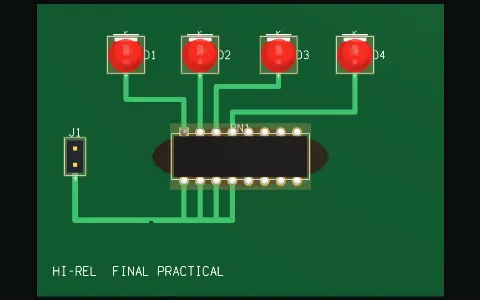
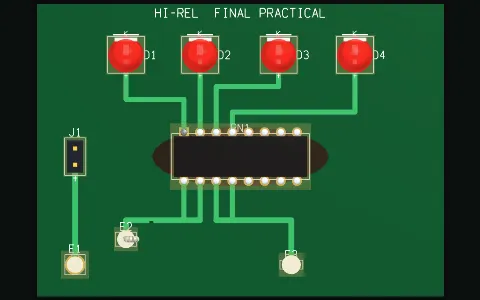
Learn: final practical wires a turret, hook and pierced tab (Appendix C)
The DIP board of the final practical now takes +5V from J1 on turret E1 and
feeds the network through hook E2 and pierced tab E3; the practical starts
without the two wires, so the candidate fits a double wire on the turret and a
single wire on the tab, as the 2M miniature performance test lists them. The
wire rules are graded there too.

diff --git a/src/i18n/ru.ts b/src/i18n/ru.ts
@@ -1838,18 +1838,14 @@ const ru: Catalog = {
   "Test coat": "Проба",
   "Tap a coated part to test the coating (test set in Bench).": "Нажмите покрытую деталь, чтобы испытать покрытие (проба выбирается в «Стенде»).",
   // ---- Soldering track: final practical (2M Appendix C)
-  "Modelled on the 2M miniature recertification performance test: identify and remove a conformal coating, remove and replace a 16-lead DIP, replace a pad with an eyelet, repair a conductor, in an ESD-safe, orderly work area.": "По образцу практического экзамена на переаттестацию 2M (миниатюрный уровень): определить и снять влагозащитное покрытие, выпаять и заменить 16-выводной DIP, заменить площадку с пистоном, отремонтировать проводник — на безопасном от ЭСР, аккуратном рабочем месте.",
   "Every project is graded against the workmanship standards of the 2M manual (T.O. 00-25-259): solder acceptability and post-solder cleanliness included.": "Каждое задание оценивается по стандартам качества руководства 2M (T.O. 00-25-259), включая приемлемость пайки и чистоту после пайки.",
   "A repaired assembly is restored at least to the original manufacturer's standards. The two final steps of any repair: inspect and test.": "Отремонтированную сборку восстанавливают как минимум до стандартов изготовителя. Два заключительных шага любого ремонта: осмотр и проверка.",
   "Recertification": "Переаттестация",
   "every 18 months, all projects within three days": "каждые 18 месяцев, все задания за три дня",
   "This card": "Эта плата",
-  "coated (no drawing), DIP-16 network, dry air": "с покрытием (без чертежа), сборка DIP-16, сухой воздух",
-  "RN1 burned out on a coated card with no drawing. Identify the coating, replace RN1 (16 pins out and in, always in a skipping pattern), repair what else you find, and put the same coating back. Every rule is graded; the hints give the order of work if you need it.": "RN1 сгорела на плате с покрытием и без чертежа. Определите покрытие, замените RN1 (16 выводов выпаять и запаять, всегда вразбивку), отремонтируйте всё, что ещё найдёте, и нанесите то же покрытие. Проверяется каждое правило; в подсказках есть порядок работы, если он нужен.",
   "Based on public-domain US Navy training": "По общедоступным учебным материалам ВМС США",
   "Soldering, rework and inspection after the US Navy's public-domain 2M training material": "Пайка, ремонт и контроль по общедоступным учебным материалам 2M ВМС США",
   "Based on NEETS Module 14 and the Navy's 2M repair and certification manuals, all public domain. A board counts as done when it works and passes inspection.": "По NEETS Module 14 и руководствам ВМС по ремонту и аттестации 2M, все в общественном достоянии. Плата засчитывается, когда она работает и проходит контроль.",
-  "The course's practical, like the 2M miniature performance test. All four LEDs are dark: RN1, the DIP-16 resistor network, burned out. The card is coated (no drawing), and the inspector checks everything you have learned. Replace RN1, repair what else you find, and leave the card as the manuals demand.": "Практикум курса — как практический экзамен 2M миниатюрного уровня. Все четыре светодиода не светятся: сгорела RN1, резисторная сборка DIP-16. Плата с покрытием (чертежа нет), а контролёр проверит всё, чему вы научились. Замените RN1, отремонтируйте всё, что ещё найдёте, и оставьте плату такой, как требуют руководства.",
   "Order of work: identify the coating by test and record it, take it off RN1 with Table 3-1's first choice, then clear all 16 holes with continuous vacuum in a skipping pattern (never two neighbouring pins in a row).": "Порядок работы: определите покрытие пробами и запишите его, снимите его с RN1 первым способом из таблицы 3-1, затем очистите все 16 отверстий непрерывным вакуумом вразбивку (никогда два соседних вывода подряд).",
   "RN1 out: the pad under pin 1 has lifted, replace it (Pad repair, E). Fit a new RN1, solder all 16 pins in a skipping pattern, clean the flux. The +5V run has a deep nick: staple it (K).": "RN1 извлечена: площадка под выводом 1 отслоилась, замените её («Ремонт площадки», E). Поставьте новую RN1, пропаяйте все 16 выводов вразбивку, смойте флюс. На дорожке +5V глубокий надрез: поставьте скобу (K).",
   "Last: the same coating back on RN1, then run the tests.": "Напоследок: то же покрытие на RN1, затем запустите проверки.",
@@ -2020,6 +2016,11 @@ const ru: Catalog = {
   "Strip too short and the wire does not reach the bottom, or the insulation sits in the solder; too long and the bare wire stands out of the cup.": "Зачистите слишком коротко — провод не дойдёт до дна или изоляция окажется в припое; слишком длинно — голый провод торчит из чашечки.",
   "Fill each cup with fresh solder (\"+ flux\"): the tinning alone does not fill it. Clean the flux off.": "Заполните каждую чашечку свежим припоем («+ флюс»): одного лужения мало. Смойте флюс.",
   "Tap a terminal, prepare the end; then the other terminal.": "Тапните контакт, подготовьте конец; затем другой контакт.",
+  "Modelled on the 2M miniature recertification performance test: identify and remove a conformal coating, wire a turret (double wire), a hook and a pierced tab, remove and replace a 16-lead DIP, replace a pad with an eyelet, repair a conductor, in an ESD-safe, orderly work area.": "По образцу практического экзамена 2M на переаттестацию (миниатюрный уровень): определить и снять влагозащитное покрытие, распаять провода на стойке (два провода), крючке и лепестке, извлечь и заменить 16-выводной DIP, заменить площадку с пистоном, отремонтировать проводник — на чистом, упорядоченном, защищённом от ESD рабочем месте.",
+  "coated (no drawing), DIP-16 network, three terminals, dry air": "покрыта (без чертежа), сборка DIP-16, три контакта, сухой воздух",
+  "RN1 burned out on a coated card with no drawing, and the supply wires from E1 are missing. Identify the coating, replace RN1 (16 pins out and in, always in a skipping pattern), wire E1 to E2 and E3, repair what else you find, and put the same coating back. Every rule is graded; the hints give the order of work if you need it.": "RN1 сгорела на покрытой плате без чертежа, и проводов питания от E1 нет. Определите покрытие, замените RN1 (16 выводов наружу и обратно, всегда вразбивку), проведите провода от E1 к E2 и E3, исправьте всё остальное, что найдёте, и нанесите то же покрытие. Оценивается каждое правило; подсказки дают порядок работы, если нужно.",
+  "The course's practical, like the 2M miniature performance test. All four LEDs are dark: RN1, the DIP-16 resistor network, burned out, and the supply wires from turret E1 to hook E2 and tab E3 were never fitted. The card is coated (no drawing), and the inspector checks everything you have learned. Replace RN1, wire the terminals, repair what else you find, and leave the card as the manuals demand.": "Практический экзамен курса, как экзамен 2M на миниатюрный уровень. Все четыре светодиода не горят: RN1, резисторная сборка DIP-16, сгорела, а провода питания от стойки E1 к крючку E2 и лепестку E3 так и не поставили. Плата покрыта (без чертежа), и контролёр проверяет всё, чему вы научились. Замените RN1, распаяйте провода, исправьте остальное и оставьте плату такой, как требуют руководства.",
+  "Wire E1 to E2 and E1 to E3 (Hook-up wire, W): a double wire on the turret, the hook wire in the arc, the tab wire through the eye. Solder E1 with both wires on it, then clean.": "Проведите провода E1–E2 и E1–E3 («Монтажный провод», W): два провода на стойке, на крючке провод в дуге, на лепестке — через отверстие. Пропаяйте E1 с обоими проводами, затем смойте флюс.",
 };
 
 export default ru;

diff --git a/src/scenarios/soldering.ts b/src/scenarios/soldering.ts
@@ -185,15 +185,31 @@ async function thermalShunt(): Promise<Scenario> {
  * A DIP-16 resistor network (8 × 330 Ω isolated) driving four LEDs: resistor n sits between pin n
  * (bottom row, to the LED) and pin 17 − n (top row, on +5V). Pins 1–4 never bonded.
  */
-/** The DIP-16 network board (lessons 6 and the final practical). */
-function dipNetworkBoard(label: string) {
+/**
+ * The DIP-16 network board (lessons 6 and the final practical). `wired`: +5V from J1 lands on
+ * turret E1 and the supply run starts at hook E2, joined by a hook-up wire (as on the 2M
+ * practical's card, Appendix C).
+ */
+function dipNetworkBoard(label: string, wired = false) {
   const k = new Builder(64, 46);
   const j1 = k.header('J1', 5, [6, 22], 0, '5V DC');
   const rn = k.dip('RN1', '4116R-2-331', [32, 22], 16);
   const ledX = [14, 25.65, 38, 50];
   const leds = ledX.map((x, i) => k.led(`D${i + 1}`, 'red', [x, 38], -90)); // anode up (36.73), cathode down (39.27)
-  k.track('F', [k.pad(j1, '1'), [6, 12], [30.73, 12]], 0.9, '+5V');
-  for (const n of [16, 15, 14, 13]) { const p = k.pad(rn, String(n)); k.track('F', [[p[0], 12], p], 0.8, '+5V'); }
+  const bus = (n: number) => (!wired ? '+5V' : n >= 15 ? 'VBUS1' : 'VBUS2');
+  if (wired) {
+    // Appendix C: a double wire on a turret (E1) and a single wire on a pierced tab (E3); E2 is a hook
+    const e1 = k.terminal('E1', 'turret', [6, 5]), e2 = k.terminal('E2', 'hook', [14, 9]), e3 = k.terminal('E3', 'tab', [40, 5]);
+    setNets(e1, { '1': '+5V' }); setNets(e2, { '1': 'VBUS1' }); setNets(e3, { '1': 'VBUS2' });
+    k.track('F', [k.pad(j1, '1'), k.pad(e1, '1')], 0.9, '+5V');
+    k.track('F', [k.pad(e2, '1'), [14, 12], [25.65, 12]], 0.9, 'VBUS1');
+    k.track('F', [k.pad(e3, '1'), [40, 12], [28.19, 12]], 0.9, 'VBUS2');
+    for (const [a, z] of [[e1, e2], [e1, e3]]) {
+      const j = addWire(k.b, a, targetEnd(a, terminalType(a)!), z, targetEnd(z, terminalType(z)!));
+      for (const e of j.ends!) e.soldered = 'ok';
+    }
+  } else k.track('F', [k.pad(j1, '1'), [6, 12], [30.73, 12]], 0.9, '+5V');
+  for (const n of [16, 15, 14, 13]) { const p = k.pad(rn, String(n)); k.track('F', [[p[0], 12], p], 0.8, bus(n)); }
   const pin = (n: number) => k.pad(rn, String(n));
   k.track('F', [pin(1), [pin(1)[0], 31], [ledX[0], 31], k.pad(leds[0], '2')], 0.8, 'LED1_A');
   k.track('F', [pin(2), k.pad(leds[1], '2')], 0.8, 'LED2_A');
@@ -202,7 +218,7 @@ function dipNetworkBoard(label: string) {
   k.track('B', [k.pad(leds[0], '1'), [ledX[0], 42], [ledX[3], 42], k.pad(leds[3], '1')], 0.9, 'GND');
   for (const i of [1, 2]) k.track('B', [k.pad(leds[i], '1'), [ledX[i], 42]], 0.9, 'GND');
   k.track('B', [[ledX[0], 42], [6, 42], k.pad(j1, '2')], 0.9, 'GND');
-  k.text([16, 4], label, 1.4);
+  k.text(wired ? [32, 44.6] : [16, 4], label, 1.4);
   return { k, leds };
 }
 
@@ -439,16 +455,17 @@ function solderCups() {
  * (staple), and the same coating goes back on.
  */
 async function finalPractical(): Promise<Scenario> {
-  const { k, leds } = dipNetworkBoard('HI-REL  FINAL PRACTICAL');
+  const { k, leds } = dipNetworkBoard('HI-REL  FINAL PRACTICAL', true);
   k.b.coating = { type: 'polyurethane', thick: false };
   const sc = await finalize('hr-final-practical', {
     title: 'Final Practical',
     author: 'DEADBOARD',
     difficulty: 4,
-    description: 'The course\'s practical, like the 2M miniature performance test. All four LEDs are dark: RN1, the DIP-16 resistor network, burned out. The card is coated (no drawing), and the inspector checks everything you have learned. Replace RN1, repair what else you find, and leave the card as the manuals demand.',
+    description: 'The course\'s practical, like the 2M miniature performance test. All four LEDs are dark: RN1, the DIP-16 resistor network, burned out, and the supply wires from turret E1 to hook E2 and tab E3 were never fitted. The card is coated (no drawing), and the inspector checks everything you have learned. Replace RN1, wire the terminals, repair what else you find, and leave the card as the manuals demand.',
     hints: [
       'Order of work: identify the coating by test and record it, take it off RN1 with Table 3-1\'s first choice, then clear all 16 holes with continuous vacuum in a skipping pattern (never two neighbouring pins in a row).',
       'RN1 out: the pad under pin 1 has lifted, replace it (Pad repair, E). Fit a new RN1, solder all 16 pins in a skipping pattern, clean the flux. The +5V run has a deep nick: staple it (K).',
+      'Wire E1 to E2 and E1 to E3 (Hook-up wire, W): a double wire on the turret, the hook wire in the arc, the tab wire through the eye. Solder E1 with both wires on it, then clean.',
       'Last: the same coating back on RN1, then run the tests.',
     ],
     par: 40,
@@ -458,9 +475,10 @@ async function finalPractical(): Promise<Scenario> {
     rn.state.burnt = true;
     rn.state.lifted = [0];
     rn.state.cold = [0];
-    const t = b.traces.find((x) => x.net === '+5V' && x.layer === 'F' && Math.abs(x.a[1] - 12) < 0.01 && Math.abs(x.b[1] - 12) < 0.01 && Math.abs(x.b[0] - x.a[0]) > 10)!;
+    const t = b.traces.find((x) => x.net === 'VBUS1' && x.layer === 'F' && Math.abs(x.a[1] - 12) < 0.01 && Math.abs(x.b[1] - 12) < 0.01 && Math.abs(x.b[0] - x.a[0]) > 10)!;
     const depth = 0.4;
     b.nicks = [{ id: 'n' + (b.nextId++).toString(36), at: [18, 12 - t.w / 2 + (depth * t.w) / 2], layer: 'F', len: 0.6, depth, rot: 0, width: t.w }];
+    b.jumpers = []; // the supply wires from E1 to E2 and E3 are not fitted yet
   });
   sc.solver = 'spice';
   return sc;

diff --git a/src/lessons/neets14.ts b/src/lessons/neets14.ts
@@ -349,25 +349,27 @@ export const CONTENT: LessonContent[] = [
     scenario: 'hr-final-practical',
     source: { ...CERT_SOURCE, pages: 'Appendix C' },
     points: [
-      tk('Modelled on the 2M miniature recertification performance test: identify and remove a conformal coating, remove and replace a 16-lead DIP, replace a pad with an eyelet, repair a conductor, in an ESD-safe, orderly work area.'),
+      tk('Modelled on the 2M miniature recertification performance test: identify and remove a conformal coating, wire a turret (double wire), a hook and a pierced tab, remove and replace a 16-lead DIP, replace a pad with an eyelet, repair a conductor, in an ESD-safe, orderly work area.'),
       tk('Every project is graded against the workmanship standards of the 2M manual (T.O. 00-25-259): solder acceptability and post-solder cleanliness included.'),
       tk('A repaired assembly is restored at least to the original manufacturer\'s standards. The two final steps of any repair: inspect and test.'),
       tk('Every rule of the earlier lessons is graded here.'),
     ],
     numbers: [
       { label: tk('Recertification'), value: tk('every 18 months, all projects within three days') },
-      { label: tk('This card'), value: tk('coated (no drawing), DIP-16 network, dry air') },
+      { label: tk('This card'), value: tk('coated (no drawing), DIP-16 network, three terminals, dry air') },
     ],
     original: [
       'The Miniature Electronic Repair Technician must satisfactorily complete the projects listed below. All specifications are contained in NAVAIR 01-1A-23, NAVSEA SE004-AK-TRS-010/2M (work package references are noted below). All work must comply with the workmanship standards listed in the respective work package sections.',
       'Identify four of five and remove two of the following conformal coating types: AR, ER, SR, UR, or XY',
+      'Install a single wire on a pierced tab terminal',
+      'Install a double wire on a turret or hook terminal',
       'Conductor repair: pad replacement with a flat-set eyelet',
       'Remove and replace a 14/16 lead dual in-line package (DIP)',
       'During the recertification, the technician observed all safety precautions and maintained a clean, orderly, and electrostatic discharge (ESD) safe work area. [SAT/UNSAT]',
       'A technician shall satisfactorily complete all required recertification tasks within a three-day period. All recertification projects must meet minimum acceptance criteria.',
       'CAUTION (NEETS Module 14, p. 3-1): THIS SECTION IS NOT, IN ANY WAY, TO BE USED BY YOU AS AUTHORIZATION TO ATTEMPT THESE TYPES OF REPAIRS WITHOUT OFFICIAL 2M CERTIFICATION.',
     ],
-    task: tk('RN1 burned out on a coated card with no drawing. Identify the coating, replace RN1 (16 pins out and in, always in a skipping pattern), repair what else you find, and put the same coating back. Every rule is graded; the hints give the order of work if you need it.'),
+    task: tk('RN1 burned out on a coated card with no drawing, and the supply wires from E1 are missing. Identify the coating, replace RN1 (16 pins out and in, always in a skipping pattern), wire E1 to E2 and E3, repair what else you find, and put the same coating back. Every rule is graded; the hints give the order of work if you need it.'),
     questions: [
       { ref: 'Q14', q: tk('To what standards should a technician restore electronic assemblies?'), a: tk('Manufacturer\'s standards.'), page: '3-22' },
       { ref: 'Q36', q: tk('What is the cause of most accidents?'), a: tk('Deviation from prescribed safe operating procedures.'), page: '3-46' },

diff --git a/src/lessons/track.ts b/src/lessons/track.ts
@@ -31,7 +31,7 @@ export const LESSON_META: LessonMeta[] = [
   { scenario: 'hr-turret', title: tk('Turret terminals'), station: 'r316f', grades: ['wire-strip', 'wire-tinning', 'wire-clearance', 'wire-forming', 'wire-solder', 'flux-residue', 'overheated-joint', 'slow-melt', 'dull-joint', 'loose-solder'] },
   { scenario: 'hr-hook-tab', title: tk('Hook and pierced tab terminals'), station: 'r316f', grades: ['wire-strip', 'wire-tinning', 'wire-clearance', 'wire-forming', 'wire-solder', 'flux-residue', 'overheated-joint', 'slow-melt', 'dull-joint', 'loose-solder'] },
   { scenario: 'hr-solder-cup', title: tk('Solder cups'), station: 'r316f', grades: ['wire-strip', 'wire-tinning', 'wire-clearance', 'wire-forming', 'wire-solder', 'flux-residue', 'overheated-joint', 'slow-melt', 'dull-joint', 'loose-solder'] },
-  { scenario: 'hr-final-practical', title: tk('Final practical'), station: 'r316f', bench: { grounded: false, humidity: 'low' }, grades: ['coating-id', 'coating-id-order', 'coating-charred', 'coating-missing', 'coating-mismatch', 'coating-method', 'skip-pattern', 'dull-joint', 'overheated-joint', 'slow-melt', 'pad-lifted', 'part-overheated', 'flux-residue', 'loose-solder', 'wire-repair', 'nick', 'esd-damage', 'esd-handling'] },
+  { scenario: 'hr-final-practical', title: tk('Final practical'), station: 'r316f', bench: { grounded: false, humidity: 'low' }, grades: ['wire-strip', 'wire-tinning', 'wire-clearance', 'wire-forming', 'wire-solder', 'coating-id', 'coating-id-order', 'coating-charred', 'coating-missing', 'coating-mismatch', 'coating-method', 'skip-pattern', 'dull-joint', 'overheated-joint', 'slow-melt', 'pad-lifted', 'part-overheated', 'flux-residue', 'loose-solder', 'wire-repair', 'nick', 'esd-damage', 'esd-handling'] },
 ];
 
 export function lessonMeta(scenarioId: string): LessonMeta | undefined {

diff --git a/test/soldering.test.ts b/test/soldering.test.ts
@@ -17,6 +17,7 @@ import { buildConnectivity } from '../src/connectivity';
 import { evaluateObjectives } from '../src/verify';
 import { BOARD_INFO, PATH_ORDER } from '../src/scenarios/catalog';
 import { addBlob, addJumper, installPart, removePart } from '../src/ops';
+import { addWire, targetEnd, terminalType } from '../src/terminals';
 
 function assert(c: unknown, m: string): asserts c { if (!c) throw new Error(m); }
 
@@ -451,6 +452,17 @@ async function main() {
     for (const pi of order) { heat(pi, true); cool(); }
     for (const c of b.components) c.state.fluxResidue = undefined;
     addJumper(b, [15, 12], 'F', [21, 12], 'F', 'staple');
+    // the supply wires: a double wire on turret E1, one to hook E2, one to pierced tab E3
+    const term = (ref: string) => b.components.find((c) => c.ref === ref)!;
+    for (const z of ['E2', 'E3']) addWire(b, term('E1'), targetEnd(term('E1'), 'turret'), term(z), targetEnd(term(z), terminalType(term(z))!));
+    for (const ref of ['E1', 'E2', 'E3']) {
+      const c = term(ref);
+      rw.applyFlux(c.at[0], c.at[1], 3); rw.feedSolder(c, 0);
+      m.addSource({ kind: 'iron', x: 0, y: 0, temp: 316, g: IRON_G.flux, pmax: 60, until: m.time + 1.6, partId: c.id, pad: 0 });
+      for (let t = 0; t < 1.6; t += 0.05) { m.step(0.05); rw.update(0.05); }
+      for (let t = 0; t < 8; t += 0.1) { m.step(0.1); rw.update(0.1); }
+    }
+    for (const c of b.components) c.state.fluxResidue = undefined;
     applyCoating(b, rn, 'polyurethane');
     const ins = inspect(b, referenceBoard(sc)!, rw.episodes, rw.log);
     assert(evaluateObjectives(b, buildConnectivity(b), sc.objectives, 'spice').allPassed, `the final card works (${JSON.stringify(rn.state)})`);

diff --git a/test/generate.test.ts b/test/generate.test.ts
@@ -61,7 +61,7 @@ const FIXES: Record<string, (b: Board) => void> = {
   'hr-turret': (b) => wire(b, [['E1', 'E2'], ['E2', 'E3']]),
   'hr-hook-tab': (b) => wire(b, [['E1', 'E2'], ['E1', 'E3']]),
   'hr-solder-cup': (b) => wire(b, [['E1', 'E2'], ['E1', 'E3']]),
-  'hr-final-practical': (b) => { const rn = part(b, 'RN1'); rn.state.lifted = undefined; installPart(rn); },
+  'hr-final-practical': (b) => { const rn = part(b, 'RN1'); rn.state.lifted = undefined; installPart(rn); wire(b, [['E1', 'E2'], ['E1', 'E3']]); },
 };
 
 async function fixed(sc: Scenario, solver: Solver): Promise<Board> {

diff --git a/docs/SIMULATION_HANDOFF.md b/docs/SIMULATION_HANDOFF.md
@@ -127,8 +127,12 @@ No reference hardware is available, so realism is validated against *design inte
     *dwell* on a molten joint (`JointEpisode.dwell`), not the whole molten time: a brass terminal
     stays molten ~6–10 s after a correct 1.6 s touch, which is cooling, not overheating.
     Test: `test/terminals.test.ts` (checks + the three boards played through, starved and sloppy fail).
-  - **Next from the manuals:** a wire on a terminal in the final practical (Appendix C has them);
-    two-wire rules (overlap, alternating directions on a hook) are not modelled (the tool stacks
+  - **Final practical wired (2026-11-25):** +5V from J1 lands on turret E1; the DIP's supply run is
+    split (VBUS1 from hook E2 for pins 16/15, VBUS2 from pierced tab E3 for pins 14/13); the
+    practical starts without the two wires: a double wire on the turret and a single wire on a
+    pierced tab, as Appendix C lists them. Wire rules graded; label moved to the top edge
+    (`dipNetworkBoard(label, wired)`; lesson 6 unchanged). board-notes 1.16.0.
+  - **Next from the manuals:** two-wire rules (overlap, alternating directions on a hook) are not modelled (the tool stacks
     wires); bifurcated terminals (08-6.8); resistive tweezers for cups; remaining 05-6.1 defects
     need a solder-volume model (convex fillet, icicles, solder balls).
   - **Follow-ups:** flat packs (3-29)
